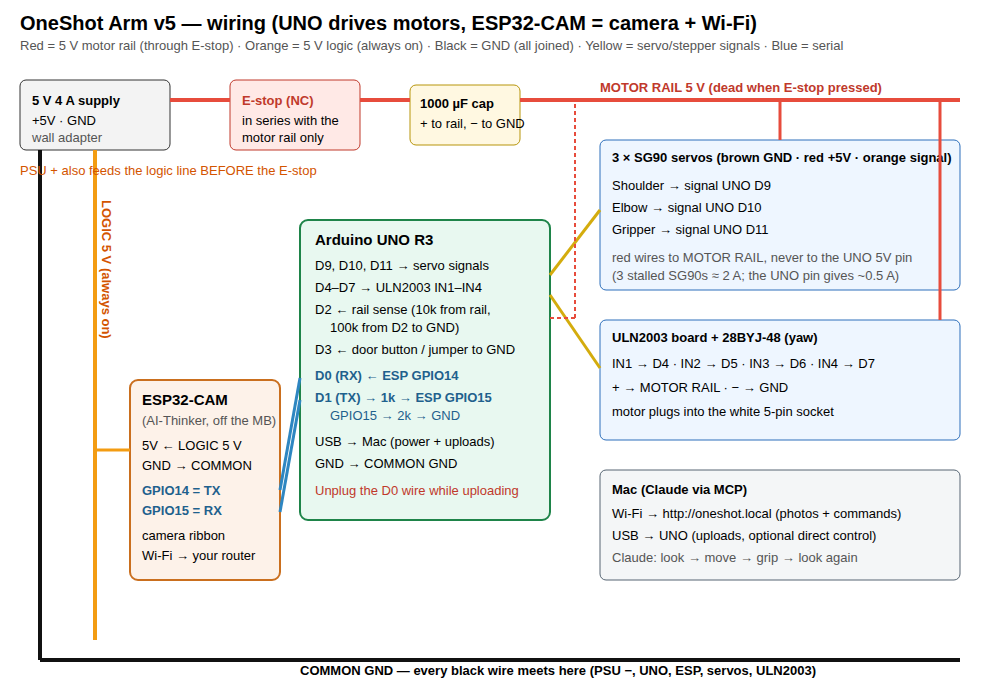
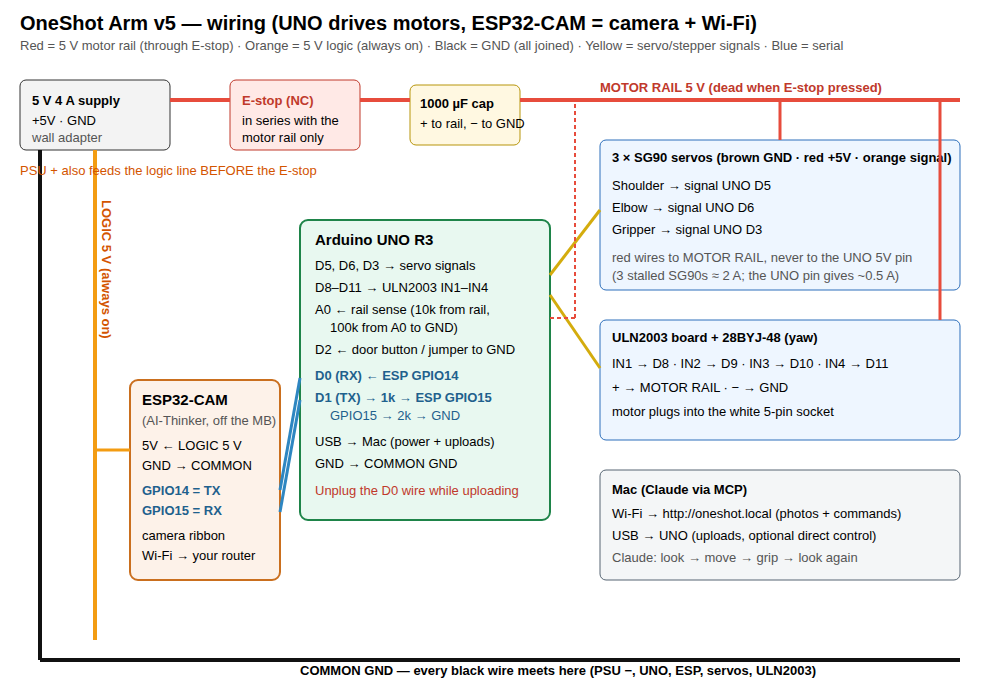
OneShot v5: align UNO pins with the published v5 build sheet (D5/D6/D3, D8-D11, door D2, rail sense A0)
Claude-Session: https://claude.ai/code/session_01VggvLsgnjwsku5Dhmp3s6W

Changed region(s): [[0.31, 0.3706, 0.496, 0.4941], [0.806, 0.525, 0.899, 0.5559], [0.744, 0.2779, 0.775, 0.3397]]

diff --git a/oneshot_v5/WIRING.md b/oneshot_v5/WIRING.md
@@ -18,11 +18,11 @@ needed) and the **ESP32-CAM is the camera + Wi-Fi link**, passing text commands 
 | PSU − | **common GND** (breadboard blue rail) | everything shares ground or serial/servo signals don't work |
 | 1000 µF cap | + motor rail, − GND (stripe = −) | absorbs servo current spikes |
 | 3 × SG90 red / brown | motor rail / GND | |
-| SG90 orange (signal) | shoulder **D9**, elbow **D10**, gripper **D11** | |
+| SG90 orange (signal) | shoulder **D5**, elbow **D6**, gripper **D3** (same as the v5 build sheet) | |
 | ULN2003 + / − | motor rail / GND | |
-| ULN2003 IN1–IN4 | **D4, D5, D6, D7** | |
-| Motor rail → 10 kΩ → **D2**, and D2 → 100 kΩ → GND | rail sense: UNO knows the E-stop is pressed | |
-| Door button (kit) | **D3** ↔ GND. No button? Put a jumper wire from D3 to GND (open D3 = "door open" = arm refuses to move) | interlock |
+| ULN2003 IN1–IN4 | **D8, D9, D10, D11** (same as the build sheet) | |
+| Motor rail → 10 kΩ → **A0**, and A0 → 100 kΩ → GND | rail sense: UNO knows the E-stop is pressed | |
+| Door button (kit) | **D2** ↔ GND. No button? Put a jumper wire from D2 to GND (open D2 = "door open" = arm refuses to move) | interlock |
 | ESP32-CAM **GPIO14** | UNO **D0 (RX)** | ESP → UNO commands (3.3 V is enough for the UNO to read HIGH) |
 | UNO **D1 (TX)** → 1 kΩ → ESP32-CAM **GPIO15**, and GPIO15 → 2 kΩ → GND | UNO → ESP replies; the divider turns 5 V into 3.3 V so the ESP pin isn't damaged | |
 | UNO USB | Mac | power for the UNO + uploads |
@@ -49,7 +49,7 @@ needed) and the **ESP32-CAM is the camera + Wi-Fi link**, passing text commands 
 4. Yaw has no home switch on v5: turn the turret to straight-ahead by hand with power off, then `zero`.
 
 ## Safety
-- The E-stop cuts motor power in hardware; the UNO also stops and detaches servos when it sees the rail drop (D2).
+- The E-stop cuts motor power in hardware; the UNO also stops and detaches servos when it sees the rail drop (A0).
 - The ESP32 bridge sends **stop** if the Mac goes quiet for 3 s in the middle of a move (dead-man), and every web
   request needs your key. Keep it on your home Wi-Fi only.
 - 1N4007 not needed: the ULN2003 has built-in flyback diodes for the stepper coils.

diff --git a/oneshot_v5/README.md b/oneshot_v5/README.md
@@ -1,7 +1,7 @@
 # OneShot Arm v5 — control stack (ESP32-CAM + UNO, Claude-controlled)
 
-- `uno_arm/uno_arm.ino` — UNO drives 3 × SG90 (D9/D10/D11) + 28BYJ-48 yaw (ULN2003 on D4–D7); smooth min-jerk moves,
-  joint limits, E-stop rail sense (D2), door interlock (D3). Text protocol: `P S J G H Z X` (see the file header).
+- `uno_arm/uno_arm.ino` — UNO drives 3 × SG90 (D5/D6/D3) + 28BYJ-48 yaw (ULN2003 on D8–D11), pins as on the v5 build sheet; smooth min-jerk moves,
+  joint limits, E-stop rail sense (A0), door interlock (D2). Text protocol: `P S J G H Z X` (see the file header).
 - `esp32cam_bridge/` — ESP32-CAM: `/capture` JPEG, `/stream` MJPEG, `/cmd` → UNO serial, API key, 3 s dead-man stop, OTA.
 - `mac/oneshot.py` — CLI/library; `mac/oneshot_mcp.py` — MCP server (look, move, grip, home, stop, status) so Claude
   sees and moves the arm.
